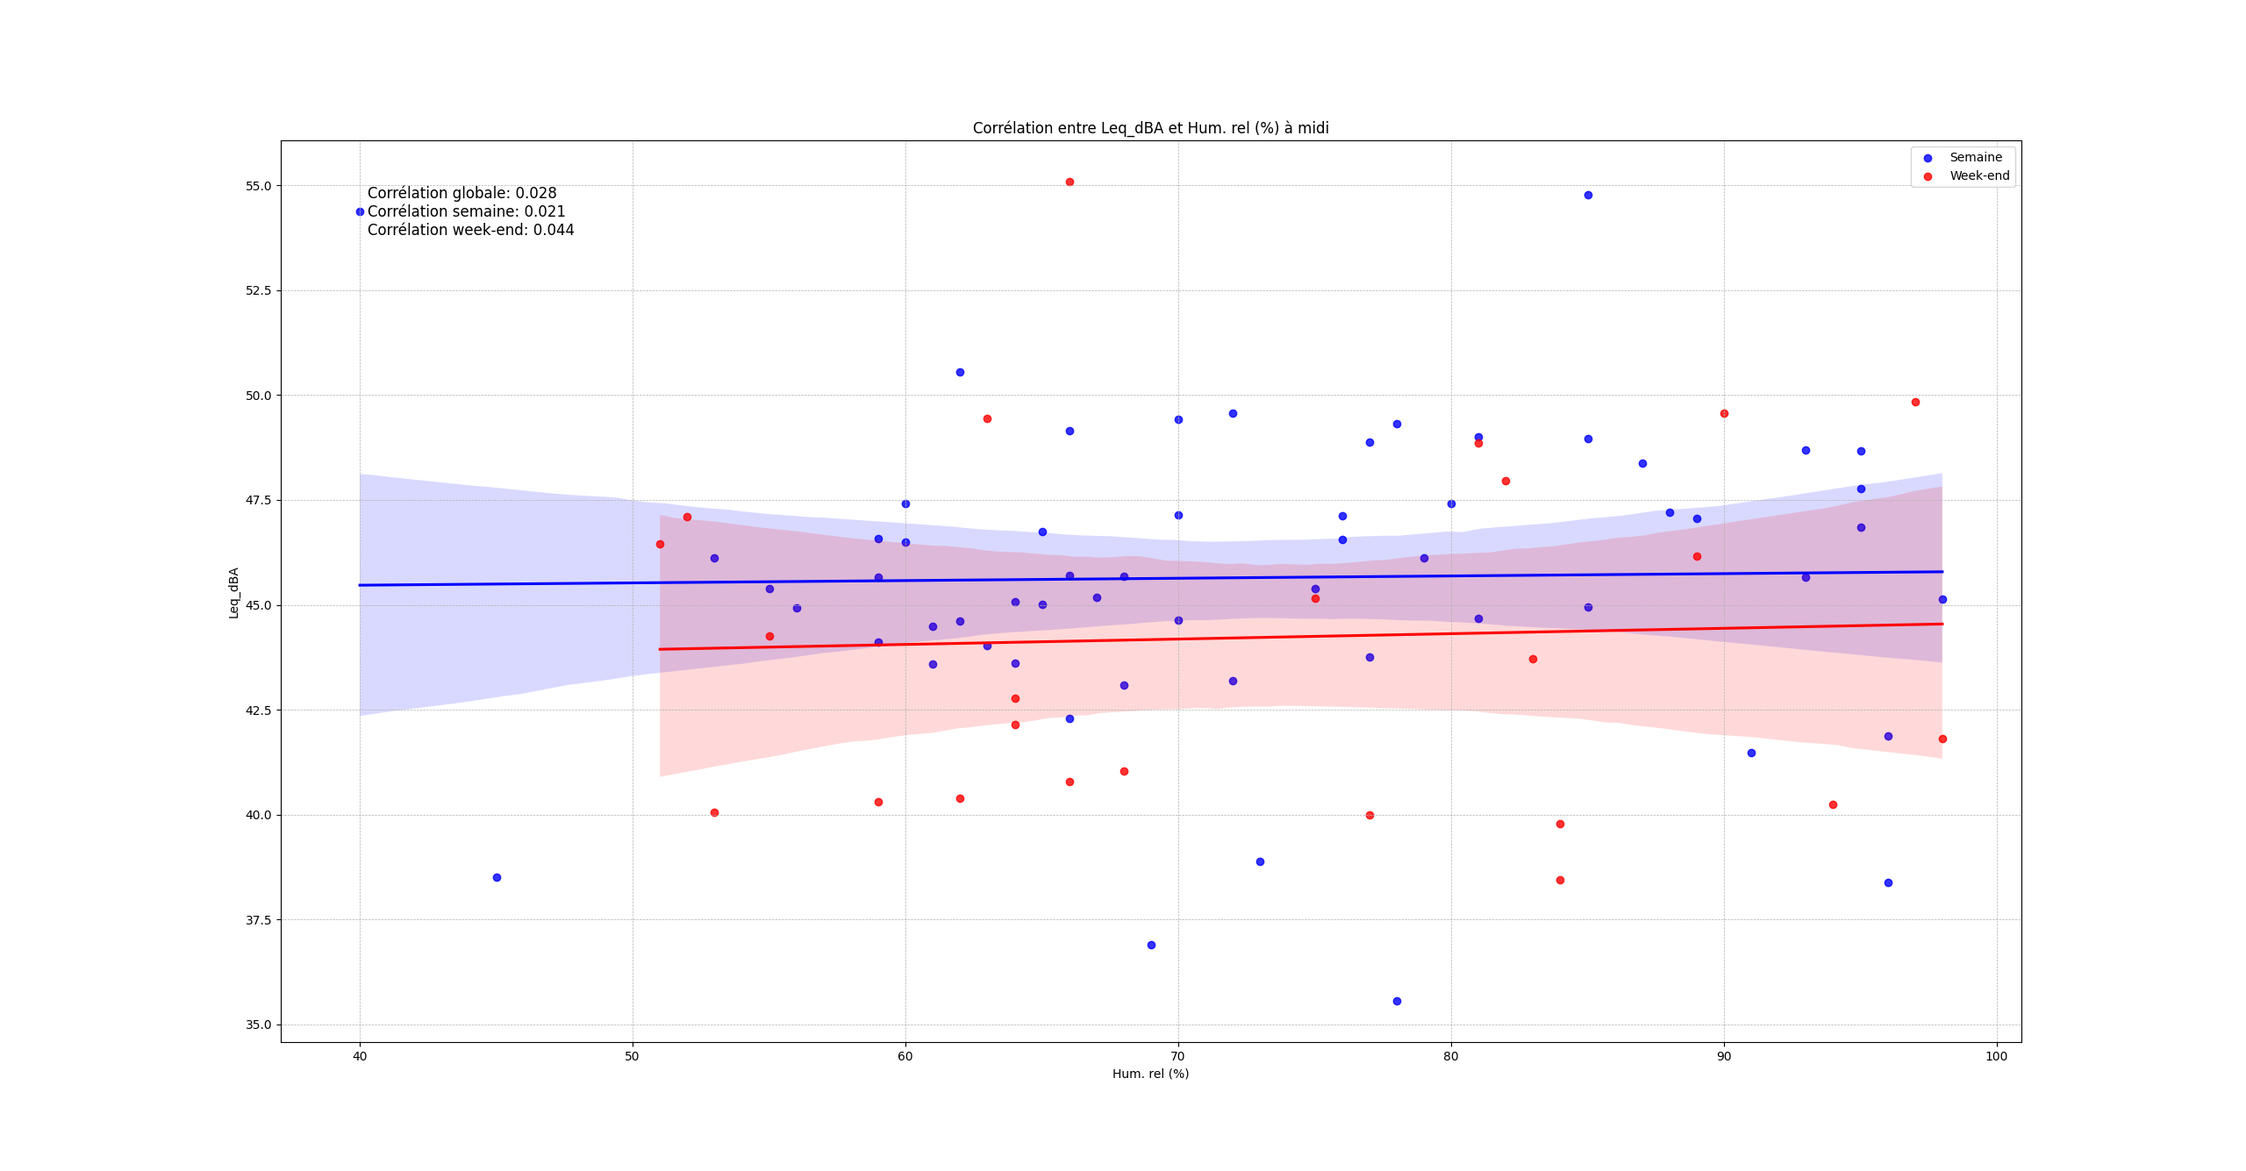
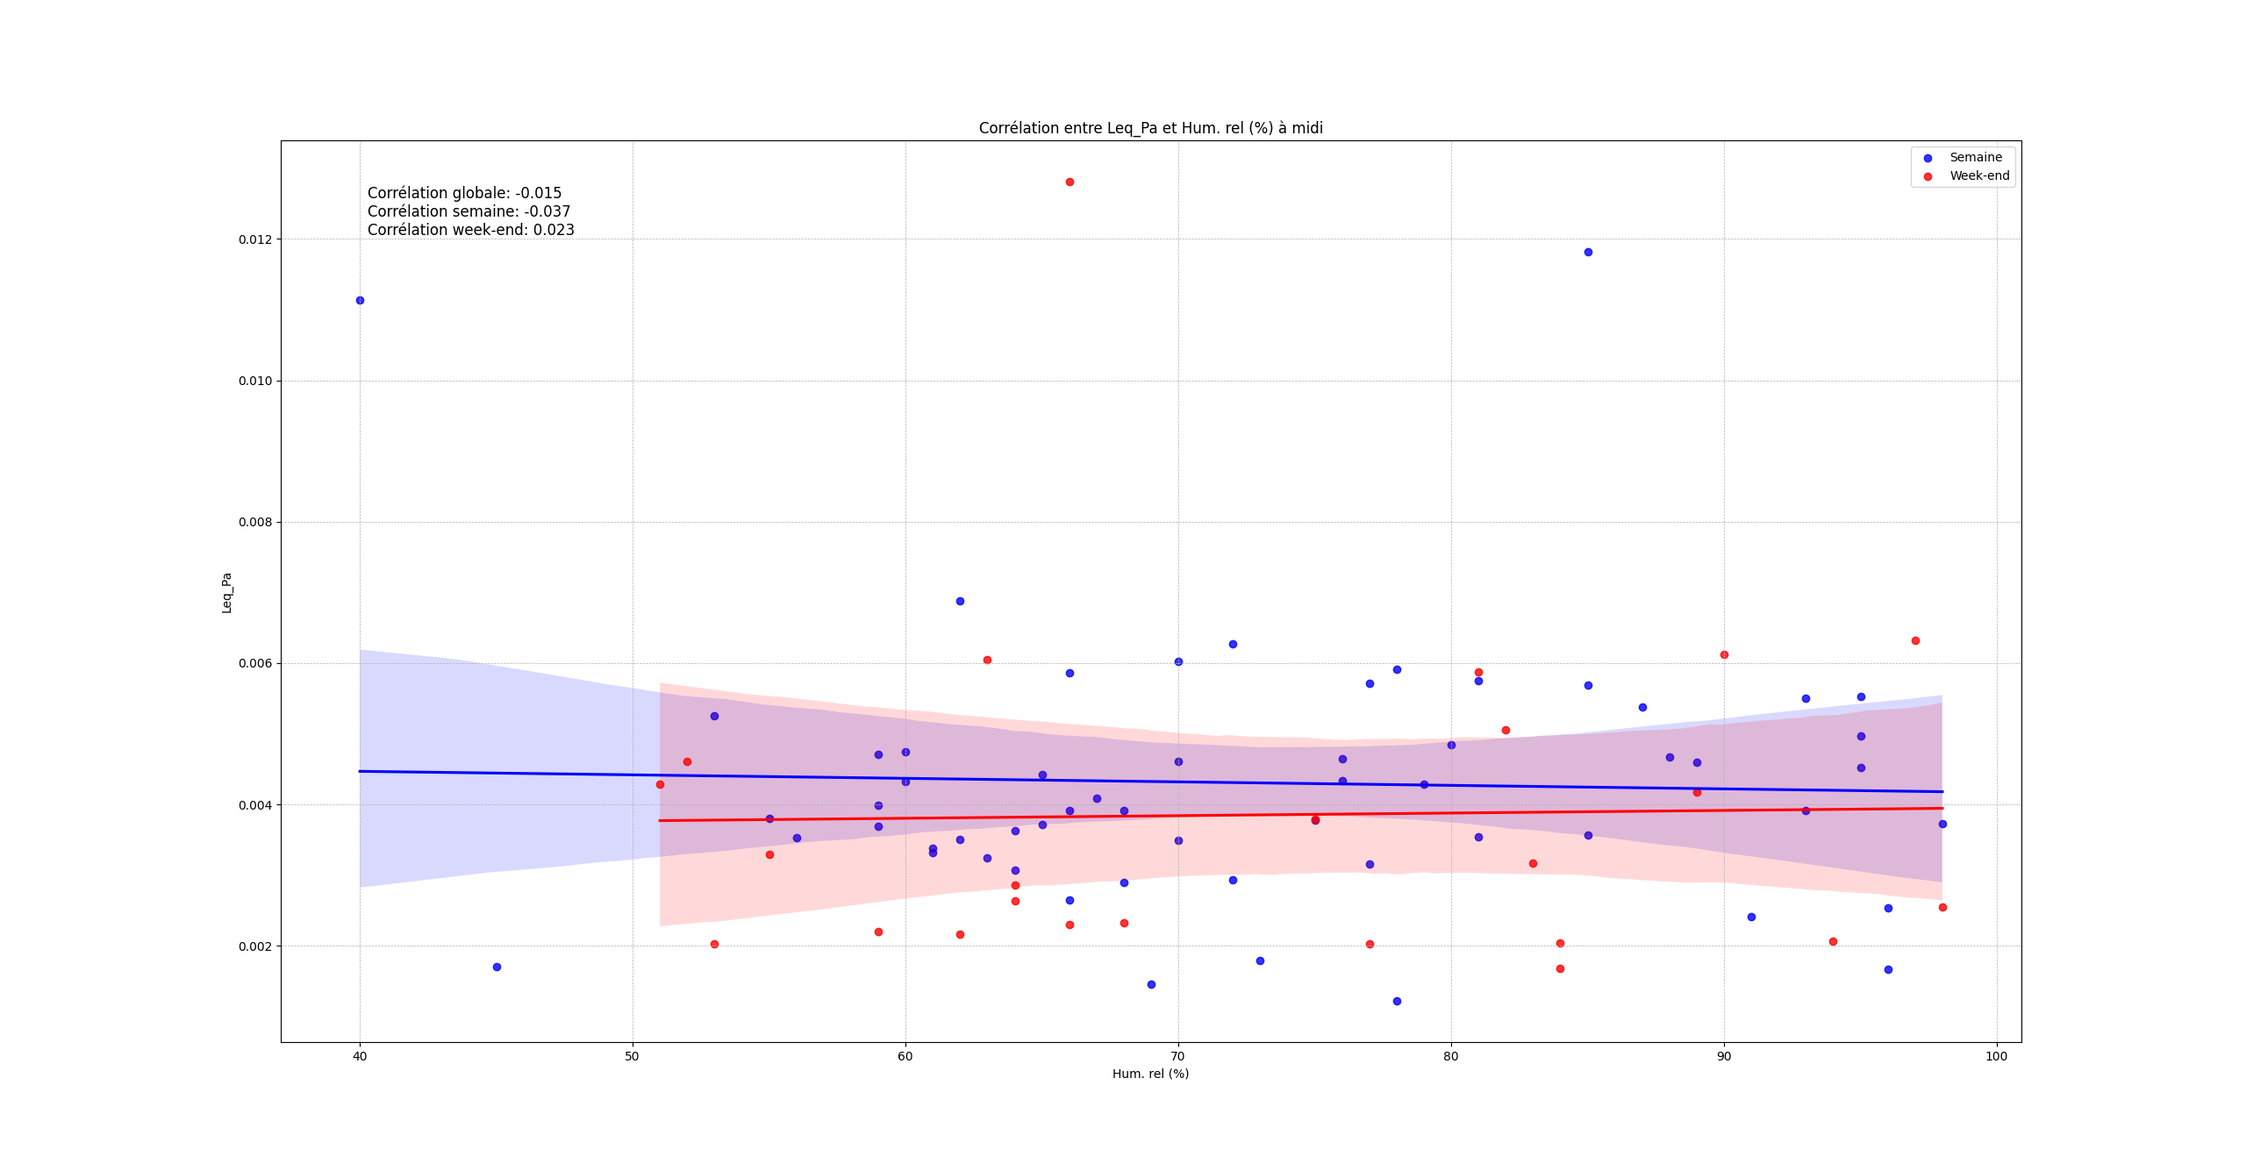
calculs en pression acoustique au lieu de décibel

diff --git a/DataAnalyzer.py b/DataAnalyzer.py
@@ -10,6 +10,10 @@ class DataAnalyzer:
     def __init__(self, file_path):
         self.df = pd.read_parquet(file_path, engine="pyarrow")
         self.df["DateTime_x"] = pd.to_datetime(self.df["DateTime_x"])
+
+        # 🔹 Conversion en pression acoustique (Pa)
+        self.df["Leq_Pa"] = 20e-6 * 10**(self.df["Leq_dBA"] / 20)
+
         self.df["Weekday"] = self.df["DateTime_x"].dt.weekday  # 0 = Lundi, 6 = Dimanche
         self.df["Hour"] = self.df["DateTime_x"].dt.hour
         self.df["IsWeekend"] = self.df["Weekday"] >= 5
@@ -26,7 +30,7 @@ class DataAnalyzer:
         df_midday = df_midday.reset_index().rename(columns={"index": "Date"})
 
         # Calculer la corrélation entre Leq et Lux
-        correlation = df_midday["Leq_dBA"].corr(df_midday["lux_S1"])
+        correlation = df_midday["Leq_Pa"].corr(df_midday["lux_S1"])
 
         print(f"Corrélation entre Leq et Lux à midi : {correlation:.3f}")
         
@@ -34,24 +38,24 @@ class DataAnalyzer:
         df_week = df_midday[df_midday["Weekday"] < 5]
         df_weekend = df_midday[df_midday["Weekday"] >= 5]
 
-        correlation_semaine = df_week[["lux_S1", "Leq_dBA"]].corr().iloc[0, 1]
-        correlation_weekend = df_weekend[["lux_S1", "Leq_dBA"]].corr().iloc[0, 1]
+        correlation_semaine = df_week[["lux_S1", "Leq_Pa"]].corr().iloc[0, 1]
+        correlation_weekend = df_weekend[["lux_S1", "Leq_Pa"]].corr().iloc[0, 1]
 
         print("Corrélation semaine:", correlation_semaine)
         print("Corrélation week-end:", correlation_weekend)
     
         # Tracer le nuage de points
         plt.figure(figsize=(10, 5))
-        sns.regplot(x=df_week["lux_S1"], y=df_week["Leq_dBA"], label="Semaine", color='blue')
-        sns.regplot(x=df_weekend["lux_S1"], y=df_weekend["Leq_dBA"], label="Week-end", color='red')
+        sns.regplot(x=df_week["lux_S1"], y=df_week["Leq_Pa"], label="Semaine", color='blue')
+        sns.regplot(x=df_weekend["lux_S1"], y=df_weekend["Leq_Pa"], label="Week-end", color='red')
         # Ajouter la valeur de corrélation sur le graphique
         plt.text(0.05, 0.95, f"Corrélation globale: {correlation:.3f}\nCorrélation semaine: {correlation_semaine:.3f}\nCorrélation week-end: {correlation_weekend:.3f}", transform=plt.gca().transAxes, fontsize=12, verticalalignment='top')
 
         plt.xlabel("Lumière (lux)")
-        plt.ylabel("Bruit (Leq dBA)")
+        plt.ylabel("Bruit en pression acoustique (Leq Pa)")
         plt.title("Corrélation entre le bruit et la lumière à midi")
         plt.legend()
-        plt.xscale("log")
+        # plt.xscale("log")
         plt.grid(True, linestyle="--", linewidth=0.5)
         plt.show()
 
@@ -65,8 +69,8 @@ class DataAnalyzer:
         df_hourly = self.df.groupby([self.df["DateTime_x"].dt.date, "Hour"]).mean(numeric_only=True).reset_index()
 
         # Calculer la corrélation pour chaque heure
-        correlations = df_hourly.groupby("Hour")[["lux_S1", "Leq_dBA"]].corr().iloc[0::2, -1].reset_index()
-        correlations = correlations.rename(columns={"Leq_dBA": "Correlation"}).drop(columns=["level_1"])
+        correlations = df_hourly.groupby("Hour")[["lux_S1", "Leq_Pa"]].corr().iloc[0::2, -1].reset_index()
+        correlations = correlations.rename(columns={"Leq_Pa": "Correlation"}).drop(columns=["level_1"])
 
         # Séparer les jours de semaine et les week-ends
         df_hourly["Weekday"] = pd.to_datetime(df_hourly["DateTime_x"]).dt.weekday
@@ -74,29 +78,29 @@ class DataAnalyzer:
         df_weekend = df_hourly[df_hourly["Weekday"] >= 5]
 
         # Calculer la corrélation pour semaine et week-end
-        correlation_week = df_week.groupby("Hour")[["lux_S1", "Leq_dBA"]].corr().iloc[0::2, -1].reset_index()
-        correlation_weekend = df_weekend.groupby("Hour")[["lux_S1", "Leq_dBA"]].corr().iloc[0::2, -1].reset_index()
+        correlation_week = df_week.groupby("Hour")[["lux_S1", "Leq_Pa"]].corr().iloc[0::2, -1].reset_index()
+        correlation_weekend = df_weekend.groupby("Hour")[["lux_S1", "Leq_Pa"]].corr().iloc[0::2, -1].reset_index()
 
         # print("Corrélation semaine par heure:")
         # print(correlation_week)
 
         # print("Corrélation week-end par heure:")
         # print(correlation_weekend)
-        print("Corrélation semaine moyenne",correlation_week["Leq_dBA"].mean())
-        print("Corrélation semaine min",correlation_week["Leq_dBA"].min())
-        print("Corrélation semaine max",correlation_week["Leq_dBA"].max())
-        print("Corrélation weekend moyenne",correlation_weekend["Leq_dBA"].mean())
-        print("Corrélation weekend min",correlation_weekend["Leq_dBA"].min())
-        print("Corrélation weekend max",correlation_weekend["Leq_dBA"].max())
+        print("Corrélation semaine moyenne",correlation_week["Leq_Pa"].mean())
+        print("Corrélation semaine min",correlation_week["Leq_Pa"].min())
+        print("Corrélation semaine max",correlation_week["Leq_Pa"].max())
+        print("Corrélation weekend moyenne",correlation_weekend["Leq_Pa"].mean())
+        print("Corrélation weekend min",correlation_weekend["Leq_Pa"].min())
+        print("Corrélation weekend max",correlation_weekend["Leq_Pa"].max())
 
         # Tracer la corrélation en fonction de l'heure
         plt.figure(figsize=(10, 5))
         plt.plot(correlations["Hour"], correlations["Correlation"], label="Tous les jours", color="black")
-        plt.plot(correlation_week["Hour"], correlation_week["Leq_dBA"], label="Semaine", color="blue")
-        plt.plot(correlation_weekend["Hour"], correlation_weekend["Leq_dBA"], label="Week-end", color="red")
+        plt.plot(correlation_week["Hour"], correlation_week["Leq_Pa"], label="Semaine", color="blue")
+        plt.plot(correlation_weekend["Hour"], correlation_weekend["Leq_Pa"], label="Week-end", color="red")
         
         plt.xlabel("Heure de la journée")
-        plt.ylabel("Corrélation Lux - Leq")
+        plt.ylabel("Corrélation Lux - Leq (Pa)")
         plt.title("Corrélation entre le bruit et la lumière par heure")
         plt.legend()
         plt.grid(True, linestyle="--", linewidth=0.5)
@@ -106,10 +110,10 @@ class DataAnalyzer:
     def analyze_weather_impact_on_sound(self):
         print("\nEntré dans la fonction analyze_weather_impact_on_sound\n")
         features = ["Temp (°C)", "Hum. rel (%)", "Pression à la station (kPa)", "Hauteur de précip. (mm)"]
-        df_ml = self.df.dropna(subset=["Leq_dBA"] + features)  # Retirer les valeurs manquantes
+        df_ml = self.df.dropna(subset=["Leq_Pa"] + features)  # Retirer les valeurs manquantes
         
         X = df_ml[features]
-        y = df_ml["Leq_dBA"]
+        y = df_ml["Leq_Pa"]
         X_train, X_test, y_train, y_test = train_test_split(X, y, test_size=0.2, random_state=42)
         
         model = RandomForestRegressor(n_estimators=100, random_state=42)
@@ -117,7 +121,7 @@ class DataAnalyzer:
         
         y_pred = model.predict(X_test)
         mae = mean_absolute_error(y_test, y_pred)
-        print(f"Erreur absolue moyenne du modèle : {mae:.2f} dBA")
+        print(f"Erreur absolue moyenne du modèle : {mae:.2f} Pa")
         
         importances = model.feature_importances_
         feature_importance = pd.DataFrame({'Feature': features, 'Importance': importances})
@@ -167,13 +171,15 @@ class DataAnalyzer:
     
     def detect_peak_hours(self):
         print("\nEntré dans la fonction detect_peak_hours\n")
-        df_hourly = self.df.groupby("Hour")["Leq_dBA"].mean()
+        df_hourly = self.df.groupby("Hour")["Leq_Pa"].mean()
+        # 🔹 Conversion inverse en dB
+        df_hourly = 20 * np.log10(df_hourly / 20e-6)
         plt.figure(figsize=(8, 5))
         plt.plot(df_hourly.index, df_hourly.values, marker="o", linestyle="-", label="Moyenne horaire du bruit")
         plt.axvspan(6, 9, color="green", alpha=0.3, label="Heures de pointe matinales")
         plt.axvspan(15, 18, color="red", alpha=0.3, label="Heures de pointe soir")
         plt.xlabel("Heure de la journée")
-        plt.ylabel("Bruit (Leq dBA)")
+        plt.ylabel("Bruit (Leq dBa moyen)")
         plt.title("Effet des heures de pointe sur le niveau de bruit")
         plt.legend()
         plt.grid(True, linestyle="--", linewidth=0.5)
@@ -274,31 +280,31 @@ class DataAnalyzer:
         plt.show()
 # Exemple d'utilisation:
 analyzer = DataAnalyzer("data.parquet")
-analyzer.analyze_correlation_leq_lux_at_noon()
-analyzer.analyze_correlation_leq_lux_all_hours()
+# analyzer.analyze_correlation_leq_lux_at_noon()
+# analyzer.analyze_correlation_leq_lux_all_hours()
 analyzer.detect_peak_hours()
 
-# Influence des paramétres météorologiques, long à compiler !
+# # Influence des paramétres météorologiques, long à compiler !
 # analyzer.analyze_weather_impact_on_sound()
 # analyzer.analyze_weather_impact_on_light()
 
-# Choix de paramètres à corréler : ["Leq_dBA", "lux_S1", "Temp (°C)", "Hum. rel (%)", "Pression à la station (kPa)", "Hauteur de précip. (mm)"]
-# Corrélations à midi
-# analyzer.analyze_correlation_at_noon("Leq_dBA","Temp (°C)")
-# analyzer.analyze_correlation_at_noon("Leq_dBA","Pression à la station (kPa)")
-# analyzer.analyze_correlation_at_noon("Leq_dBA","Hum. rel (%)")
-# analyzer.analyze_correlation_at_noon("Leq_dBA","Hauteur de précip. (mm)")
+# # Choix de paramètres à corréler : ["Leq_Pa", Leq_dBA", "lux_S1", "Temp (°C)", "Hum. rel (%)", "Pression à la station (kPa)", "Hauteur de précip. (mm)"]
+# # Corrélations à midi
+# analyzer.analyze_correlation_at_noon("Leq_Pa","Temp (°C)")
+# analyzer.analyze_correlation_at_noon("Leq_Pa","Pression à la station (kPa)")
+# analyzer.analyze_correlation_at_noon("Leq_Pa","Hum. rel (%)")
+# analyzer.analyze_correlation_at_noon("Leq_Pa","Hauteur de précip. (mm)")
 
 # analyzer.analyze_correlation_at_noon("lux_S1","Temp (°C)")
 # analyzer.analyze_correlation_at_noon("lux_S1","Pression à la station (kPa)")
 # analyzer.analyze_correlation_at_noon("lux_S1","Hum. rel (%)")
 # analyzer.analyze_correlation_at_noon("lux_S1","Hauteur de précip. (mm)")
 
-# Corrélations par heure
-# analyzer.analyze_correlation_all_hours("Leq_dBA","Temp (°C)")
-# analyzer.analyze_correlation_all_hours("Leq_dBA","Pression à la station (kPa)")
-# analyzer.analyze_correlation_all_hours("Leq_dBA","Hum. rel (%)")
-# analyzer.analyze_correlation_all_hours("Leq_dBA","Hauteur de précip. (mm)")
+# # Corrélations par heure
+# analyzer.analyze_correlation_all_hours("Leq_Pa","Temp (°C)")
+# analyzer.analyze_correlation_all_hours("Leq_Pa","Pression à la station (kPa)")
+# analyzer.analyze_correlation_all_hours("Leq_Pa","Hum. rel (%)")
+# analyzer.analyze_correlation_all_hours("Leq_Pa","Hauteur de précip. (mm)")
 
 # analyzer.analyze_correlation_all_hours("lux_S1","Temp (°C)")
 # analyzer.analyze_correlation_all_hours("lux_S1","Pression à la station (kPa)")

diff --git a/DataVisualizer.py b/DataVisualizer.py
@@ -1,4 +1,5 @@
 import pandas as pd
+import numpy as np
 import matplotlib.pyplot as plt
 import matplotlib.dates as mdates
 
@@ -6,12 +7,17 @@ class DataVisualizer:
     def __init__(self, file_path):
         self.df = pd.read_parquet(file_path, engine="pyarrow")
         self.df["DateTime_x"] = pd.to_datetime(self.df["DateTime_x"])
+        
+        # 🔹 Conversion en pression acoustique (Pa)
+        self.df["Leq_Pa"] = 20e-6 * 10**(self.df["Leq_dBA"] / 20)
+
+        # 🔹 Création des DataFrames résumés
         self.df_hourly = self._prepare_hourly_data()
         self.df_minutes = self._prepare_minutes_data()
     
     def _prepare_hourly_data(self):
         df_hourly = self.df.resample("h", on="DateTime_x").agg({
-            "Leq_dBA": ["mean", "min", "max"],
+            "Leq_Pa": ["mean", "min", "max"],
             "lux_S1": ["mean", "min", "max"],
             "Temp (°C)": "mean",
             "Hum. rel (%)": "mean",
@@ -19,13 +25,21 @@ class DataVisualizer:
             "Pression à la station (kPa)": "mean",
             "Hauteur de précip. (mm)": "mean"
         })
-        df_hourly.columns = ["Leq_mean", "Leq_min", "Leq_max", "Lux_mean", "Lux_min", "Lux_max", 
-                             "Temp_mean", "Humidity_mean", "Wind_mean", "Pressure_mean", "Precipitations_mean"]
+
+        # 🔹 Conversion inverse en dB
+        df_hourly["Leq_mean"] = 20 * np.log10(df_hourly["Leq_Pa"]["mean"] / 20e-6)
+        df_hourly["Leq_min"] = 20 * np.log10(df_hourly["Leq_Pa"]["min"] / 20e-6)
+        df_hourly["Leq_max"] = 20 * np.log10(df_hourly["Leq_Pa"]["max"] / 20e-6)
+
+        df_hourly.drop(columns=["Leq_Pa"], inplace=True)
+        
+        df_hourly.columns = ["Lux_mean", "Lux_min", "Lux_max", "Temp_mean", "Humidity_mean", "Wind_mean", "Pressure_mean", "Precipitations_mean","Leq_mean", "Leq_min", "Leq_max"]
+        
         return df_hourly.reset_index()
-    
+
     def _prepare_minutes_data(self):
         df_minutes = self.df.resample("min", on="DateTime_x").agg({
-            "Leq_dBA": ["mean", "min", "max"],
+            "Leq_Pa": ["mean", "min", "max"],
             "lux_S1": ["mean", "min", "max"],
             "Temp (°C)": "mean",
             "Hum. rel (%)": "mean",
@@ -33,19 +47,27 @@ class DataVisualizer:
             "Pression à la station (kPa)": "mean",
             "Hauteur de précip. (mm)": "mean"
         })
-        df_minutes.columns = ["Leq_mean", "Leq_min", "Leq_max", "Lux_mean", "Lux_min", "Lux_max", 
-                             "Temp_mean", "Humidity_mean", "Wind_mean", "Pressure_mean", "Precipitations_mean"]
+
+        # 🔹 Conversion inverse en dB
+        df_minutes["Leq_mean"] = 20 * np.log10(df_minutes["Leq_Pa"]["mean"] / 20e-6)
+        df_minutes["Leq_min"] = 20 * np.log10(df_minutes["Leq_Pa"]["min"] / 20e-6)
+        df_minutes["Leq_max"] = 20 * np.log10(df_minutes["Leq_Pa"]["max"] / 20e-6)
+
+        df_minutes.drop(columns=["Leq_Pa"], inplace=True)
+
+        df_minutes.columns = ["Lux_mean", "Lux_min", "Lux_max", "Temp_mean", "Humidity_mean", "Wind_mean", "Pressure_mean", "Precipitations_mean","Leq_mean", "Leq_min", "Leq_max"]
+
         return df_minutes.reset_index()
     
-    def plot_data_by_days(self, start_date, days=7, elements=None):
+    def plot_data_by_days(self, start_date, days=7, elements=None, Pa=False):
         end_date = start_date + pd.Timedelta(days=days)
-        self._plot_time_series(start_date, end_date, elements)
+        self._plot_time_series(start_date, end_date, elements, None, None, Pa)
     
-    def plot_data_by_months(self, start_date, months=1, elements=None):
+    def plot_data_by_months(self, start_date, months=1, elements=None, Pa=False):
         end_date = start_date + pd.DateOffset(months=months)
-        self._plot_time_series(start_date, end_date, elements)
+        self._plot_time_series(start_date, end_date, elements, None, None, Pa)
     
-    def plot_data_by_hour_range(self, start_date, end_date, hours, elements=None):
+    def plot_data_by_hour_range(self, start_date, end_date, hours, elements=None, Pa=False):
         if end_date is None:
             end_date = start_date
         
@@ -56,15 +78,15 @@ class DataVisualizer:
             days = df_filtered["DateTime_x"].dt.date.unique()
             for day in days:
                 df_day = df_filtered[(df_filtered["DateTime_x"].dt.date >= day) & (df_filtered["DateTime_x"].dt.date <= day + pd.Timedelta(days=1))]
-                self._plot_time_series(pd.Timestamp(day), None, elements, df_day, hours)
+                self._plot_time_series(pd.Timestamp(day), None, elements, df_day, hours, Pa)
         else:
             df_filtered = self.df_minutes[(self.df_minutes["DateTime_x"] >= start_date) &
                                      (self.df_minutes["DateTime_x"] <= end_date + pd.Timedelta(days=1) + pd.Timedelta(hours=23) + pd.Timedelta(minutes=59)) &
                                      (self.df_minutes["DateTime_x"].dt.hour.isin(hours))]
             df_day = df_filtered[(df_filtered["DateTime_x"].dt.date >= start_date.date()) & (df_filtered["DateTime_x"].dt.date <= start_date.date() + pd.Timedelta(days=1))]
-            self._plot_time_series(start_date, None, elements, df_day, hours)
+            self._plot_time_series(start_date, None, elements, df_day, hours, Pa)
     
-    def _plot_time_series(self, start_date, end_date, elements=["Leq", "Lux"], df_filtered=None, hours=None):
+    def _plot_time_series(self, start_date, end_date, elements=["Leq", "Lux"], df_filtered=None, hours=None, Pa=False):
         colors = {"Leq": "blue", "Lux": "orange", "Temp": "red", "Humidity": "green", 
                   "Precipitations": "cyan", "Wind": "purple", "Pressure": "brown"}
         
@@ -103,7 +125,10 @@ class DataVisualizer:
             if column_mean in df_filtered.columns:
                 ax.plot(df_filtered["DateTime_x"], df_filtered[column_mean], label=element, 
                         color=colors.get(element, "black"), linestyle="-", linewidth=1.5)
-                ax.set_ylabel(element)
+                if element == "Leq" and Pa:
+                    ax.set_ylabel("Pression acoustique (Pa)")
+                else:
+                    ax.set_ylabel(element+" (dBA)")
                 ax.legend()
                 ax.grid(True, linestyle="--", linewidth=0.5)
                 
@@ -134,7 +159,7 @@ class DataVisualizer:
 
 # Exemple d'utilisation:
 visualizer = DataVisualizer("data.parquet")
-visualizer.plot_data_by_days(start_date=pd.Timestamp("2024-01-02"), days=4, elements=["Leq", "Lux"])
-visualizer.plot_data_by_months(start_date=pd.Timestamp("2023-12-01"), months=1, elements=["Leq", "Lux"])
-visualizer.plot_data_by_hour_range(start_date=pd.Timestamp("2024-01-01"), end_date=None, hours=[23,0,1,2,3], elements=["Leq", "Lux", "Temp", "Humidity", "Wind", "Pressure", "Precipitations"])
-visualizer.plot_data_by_hour_range(start_date=pd.Timestamp("2024-02-01"), end_date=pd.Timestamp("2024-02-02"), hours=[5,6,7], elements=["Leq", "Lux"])
+visualizer.plot_data_by_days(start_date=pd.Timestamp("2024-01-02"), days=4, elements=["Leq", "Lux"], Pa=False)
+visualizer.plot_data_by_months(start_date=pd.Timestamp("2023-12-01"), months=1, elements=["Leq", "Lux"], Pa=False)
+visualizer.plot_data_by_hour_range(start_date=pd.Timestamp("2024-01-01"), end_date=None, hours=[23,0,1,2,3], elements=["Leq", "Lux", "Temp", "Humidity", "Wind", "Pressure", "Precipitations"], Pa=False)
+visualizer.plot_data_by_hour_range(start_date=pd.Timestamp("2024-02-01"), end_date=pd.Timestamp("2024-02-02"), hours=[5,6,7], elements=["Leq", "Lux"], Pa=False)
